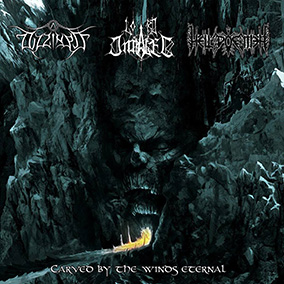
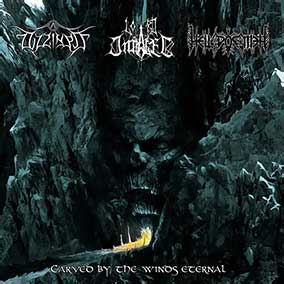
Updated images
image enhancements
minor fixes

diff --git a/dsk2016-demology.htm b/dsk2016-demology.htm
@@ -5,7 +5,7 @@
 	<meta http-equiv="X-UA-Compatible" content="IE=edge">
   <meta name="viewport" content="width=device-width, initial-scale=1">
 	<meta name="author" content="Alexandros Kallinikos">
-	<title>LORD IMPALER | Babylon Whore (2013) :: Official Web Dominion</title>
+	<title>LORD IMPALER | Demology, The Decade Of Obscurity (2016) :: Official Web Dominion</title>
 
 	<link rel="stylesheet" type="text/css" href="css/bootstrap.min.css" />
 	<link rel="stylesheet" type="text/css" href="css/lordstyle.css" />
@@ -54,41 +54,77 @@
 				</nav>
 			</div>
 
-			<article id="main">
-				<h2>Babylon Whore</h2>
-				<div class="row">
-					<div class="col-md-6">
-						<p><img src="releases/2013bw.jpg" class="img-responsive">
-					</div>
-					<div class="col-md-6">
-						<p><b>Babylon Whore</b><br>
-						<b>Year</b>: 2013<br>
-						<b>Category</b>: EP<br>
-						<p><b>Babylon Whore</b> was recorded between January and March 2013 by Lord Impaler. Drums were recorded at Infected_Studios, performed by George Trakas (Mass Infection). <p><b>Babylon Whore</b> was mixed and mastered at Infected_Studios by George Stournaras between March and May 2013.<br><br>
-						Tracklisting:<br>
-						1. Babylon Whore (3:57)<br>
-						2. The White Dream Of Ziz (5:07)<br>
-						<br>Line-up:<br>
-						<b>Tragon</b> - Vocals<br>
-						<b>Lord Nebulah</b> - Guitars<br>
-						<b>Phlegethon</b> - Bass<br>
-						Drums performed by George Trakas (Mass Infection)<br>
-					</div>
+		<article id="main">
+			<h2>Demology, The Decade Of Obscurity</h2>
+			<div class="row">
+				<div class="col-md-6">
+					<p><img src="releases/2016dtdoo.jpg" class="img-responsive">
 				</div>
-
-				<div class="row">
-					<div class="col-md-4">
-						<p>Related Links<br><a href="http://lordimpaler.wordpress.com/category/reviews/babylon-whore/" target="_new">Read reviews</a></p>
-					</div>
-					<div class="col-md-4">
-						<p>Related media<br><a href="http://www.youtube.com/watch?v=AjHw-catCx0" target="_new">Teaser video (youtube)</a></p>
-					</div>
-					<div class="col-md-4">
-						<p>Get Babylon Whore<br><a href="http://lordimpaler.bandcamp.com/album/babylon-whore" target="_new"> Buy it! </a></p>
-					</div>
+				<div class="col-md-6">
+					<p><b>Title:</b>Demology, The Decade Of Obscurity<br>
+					<b>Year</b>: 2016<br>
+					<b>Category</b>: Compilation<br>
+					<p>«On May 13 2016, Lord Impaler stepped on a stage for the first time after 16 years. Our previous gig happened in July 2000. We were working hard all these past months to give the best show we could, and I hope we delivered a memorable performance.</p>
+					<p>We met and talked to people attending the show who weren’t even born when we started our journey as a band. A journey with ups and downs, with twists and turns. And we wanted them to be able to retrace it, from the first dark days, all the way to making our debut album.</p>
+					<p>So we prepared this compilation. <em>DEMOLOGY, The Decade of Obscurity</em> contains all of our demos, plus some unreleased songs. We have treated the sound a bit, to make them listenable, to remove some tape hiss, to bring them to the same volume level, but otherwise we fixed nothing else. This is our history and we are proud of it, because each of these songs has had its role into making us what we are today. This collection is FREE for anyone who wants to discover Lord Impaler. We hope you will enjoy it.»
 				</div>
-			</article>
+			</div>
+			<div class="row">
+				<div class="col-md-6">
+					<p class="text-right">Line-up:<br>
+					<b>Tragon</b> - Vocals<br>
+					<b>Lord Nebulah</b> - Guitars<br>
+					<b>Phlegethon</b> - Bass<br>
+					Voyd - Bass<br>
+					Azaghal - Guitars<br>
+					John S. - Drums<br>
+					Pantelis K. - Drums<br>
+					Nosferatu - Synths<br>
+					Bathory - Vocals<br>
+				</div>
+				<div class="col-md-6">
+					<p>Tracklisting:<br>
+					<ol>
+						<li>Intro</li>
+						<li>Dying</li>
+						<li>Outro</li>
+						<h6>from <em>The Lord Impaler</em> demo, 1999</h6>
+						<li>Non Serviam <em>(* Rotting Christ cover)</em></li>
+						<li>Lesbian Show <em>(* Nightfall cover)</em></li>
+						<li>Blashyrkh (Mighty Ravendark) <em>(* Immortal cover)</em></li>
+						<h6>Live @Oxya, 2000</h6>
+						<li>Mournful Dusk</li>
+						<li>Final Gates</li>
+						<li>Travel Through Abyss</li>
+						<li>Eternal Wander Beyond The Unseen</li>
+						<h6>from <em>Twilight Wander</em> promo, 2001</h6>
+						<li>Among Ruins (In The Moonlight)</li>
+						<li>Antichristian Hordes</li>
+						<li>The Lord Impaler</li>
+						<li>Admire The Cosmos Black</li>
+						<h6>from <em>Promo 2005</em></h6>
+						<li>The Lord Impaler (2006)</li>
+						<h6>Previously unreleased</h6>
+						<li>Homage</li>
+						<li>Warchant</li>
+						<h6>from <em>Demo 2009</em></h6>
+					</ol>
+				</div>
+			</div>
 
+
+			<div class="row">
+				<div class="col-md-4">
+					<p>Related Links<br>--</p>
+				</div>
+				<div class="col-md-4">
+					<p>Related media<br><a href="https://youtu.be/9FEW482Hcqg">Video</a></p>
+				</div>
+				<div class="col-md-4">
+					<p>Get if FREE<br><a href="http://bit.ly/Demology">Direct download</p>
+				</div>
+			</div>
+		</article>
 
 		<hr style="width: 80%">
 		<footer id="footer"><p class="text-center">&copy; C & P Lord Impaler 1998-2016 - Powered by Bootstrap 3.3.6<br>

diff --git a/discography.htm b/discography.htm
@@ -61,7 +61,7 @@
 					<div class="col-md-12">
 						<h3>Albums</h3>
 						<div class="row">
-							<div class="col-md-3"><a href="dsk2011-admire-the-cosmos-black.htm"><img src="releases/2011atcb_cd.jpg" class="img-responsive"><br><p class="text-center">Admire The Cosmos Black<br>(2011)</a></div>
+							<div class="col-md-3"><a href="dsk2011-admire-the-cosmos-black.htm"><img src="releases/2011atcb_thumb.jpg" class="img-responsive"><br><p class="text-center">Admire The Cosmos Black<br>(2011)</a></div>
 							<div class="col-md-3"></div>
 							<div class="col-md-3"></div>
 							<div class="col-md-3"></div>
@@ -74,9 +74,9 @@
 						<h3>EP / Split</h3>
 						<div class="row">
 							<div class="col-md-3"><a href="dsk2016-carved-by-the-winds-eternal.htm"><img src="releases/2016cbtwe_thumb.jpg" class="img-responsive"><br><p class="text-center">Carved By The Winds Eternal<br>(2016)</a></div>
-							<div class="col-md-3"><a href="dsk2014-the-serpent-seal.htm"><img src="releases/2014tss_digi.jpg" class="img-responsive"><br><p class="text-center">The Serpent Seal<br>(2014)</a></div>
-							<div class="col-md-3"><a href="dsk2013-babylon-whore.htm"><img src="releases/2013bw_digi.jpg" class="img-responsive"><br><p class="text-center">Babylon Whore<br>(2013)</a></div>
-							<div class="col-md-3"><a href="dsk2008-the-ascending-novelty.htm"><img src="releases/2008tan_lp.jpg" class="img-responsive"><br><p class="text-center">The Ascending Novelty<br>(2008)</a></div>
+							<div class="col-md-3"><a href="dsk2014-the-serpent-seal.htm"><img src="releases/2014tss_thumb.jpg" class="img-responsive"><br><p class="text-center">The Serpent Seal<br>(2014)</a></div>
+							<div class="col-md-3"><a href="dsk2013-babylon-whore.htm"><img src="releases/2013bw_thumb.jpg" class="img-responsive"><br><p class="text-center">Babylon Whore<br>(2013)</a></div>
+							<div class="col-md-3"><a href="dsk2008-the-ascending-novelty.htm"><img src="releases/2008tan_thumb.jpg" class="img-responsive"><br><p class="text-center">The Ascending Novelty<br>(2008)</a></div>
 						</div>
 					</div>
 				</div>
@@ -85,8 +85,8 @@
 					<div class="col-md-12">
 						<h3>Compilations</h3>
 						<div class="row">
-							<div class="col-md-3"><a href="dsk2011-black-syndicate-2.htm"><img src="releases/2011tbsv2.jpg" class="img-responsive"><br><p class="text-center">The Black Syndicate vol.ii<br>(2011)</a></div>
-							<div class="col-md-3"></div>
+							<div class="col-md-3"><a href="dsk2016-demology.htm"><img src="releases/2016dtdoo_thumb.jpg" class="img-responsive"><br><p class="text-center">Demology, The Decade Of Obscurity<br>(2016)</a></div>
+							<div class="col-md-3"><a href="dsk2011-black-syndicate-2.htm"><img src="releases/2011tbsv2_thumb.jpg" class="img-responsive"><br><p class="text-center">The Black Syndicate vol.ii<br>(2011)</a></div>
 							<div class="col-md-3"></div>
 							<div class="col-md-3"></div>
 						</div>

diff --git a/store.htm b/store.htm
@@ -85,21 +85,21 @@
 						</div>
 					</div>
 					<div class="row" style="margin-bottom:20px;">
-						<div class="col-md-4"><img src="releases/2014tss_digi.jpg" class="img-responsive" alt="The Serpent Seal"></div>
+						<div class="col-md-4"><img src="releases/2014tss_thumb.jpg" class="img-responsive" alt="The Serpent Seal"></div>
 						<div class="col-md-8"><h4>The Serpent Seal, Το Αρχέγονο Σκότος Επιστρέφει</h4><h5>(EP, 2014)</h5>
 									<p>Pricing: 2,00 &euro; (Digital)</p>
 									<p><a class="btn btn-primary btn-lg" href="http://lordimpaler.bandcamp.com/album/the-serpent-seal" target="_blank">Buy Digital</a></p>
 						</div>
 					</div>
 					<div class="row" style="margin-bottom:20px;">
-						<div class="col-md-4"><img src="releases/2013bw_digi.jpg" class="img-responsive" alt="Babylon Whore"></div>
+						<div class="col-md-4"><img src="releases/2013bw_thumb.jpg" class="img-responsive" alt="Babylon Whore"></div>
 						<div class="col-md-8"><h4>Babylon Whore</h4><h5>(EP, 2013)</h5>
 									<p>Pricing: 1,00 &euro; (Digital)</p>
 									<p><a class="btn btn-primary btn-lg" href="http://lordimpaler.bandcamp.com/album/babylon-whore" target="_blank">Buy Digital</a></p>
 						</div>
 					</div>
 					<div class="row" style="margin-bottom:20px;">
-						<div class="col-md-4"><img src="releases/2011atcb_cd.jpg" class="img-responsive" alt="Admire the Cosmos Black CD"></div>
+						<div class="col-md-4"><img src="releases/2011atcb_thumb.jpg" class="img-responsive" alt="Admire the Cosmos Black CD"></div>
 						<div class="col-md-8"><h4>Admire The Cosmos Black</h4><h5>(Album, 2011)</h5>
 									<p>Pricing: 12,00 &euro; (CD, postage included), 5,50 &euro; (Digital)</p>
 								<div class="row">
@@ -110,14 +110,14 @@
 										<button type="submit" class="btn btn-primary btn-lg">Buy CD</button>
 										</form>
 									</div>
-									<div class="col-md-6" style="min-width:186px">
+									<div class="col-md-6">
 										<a class="btn btn-primary btn-lg" href="http://lordimpaler.bandcamp.com/album/admire-the-cosmos-black" target="_blank">Buy Digital</a>
 									</div>
 								</div>
 						</div>
 					</div>
 					<div class="row" style="margin-bottom:20px;">
-						<div class="col-md-4"><img src="releases/2008tan_lp.jpg" class="img-responsive" alt="The Ascending Novelty"></div>
+						<div class="col-md-4"><img src="releases/2008tan_thumb.jpg" class="img-responsive" alt="The Ascending Novelty"></div>
 						<div class="col-md-8"><h4>The Ascending Novelty</h4><h5>(4-way Split, 2008)</h5>
 									<p>Pricing: 10,00 &euro; (LP, postage included)</p>
 									<p>Limited stock: to place your order send an e-mail to <a href="mailto:the_tragon@yahoo.com"> Tragon </a> and ask for availability.</p>

diff --git a/dsk2014-the-serpent-seal.htm b/dsk2014-the-serpent-seal.htm
@@ -58,7 +58,7 @@
 				<h2>The Serpent Seal, <font face="arial">Το Αρχέγονο Σκότος Επιστρέφει</font></h2>
 				<div class="row">
 					<div class="col-md-6">
-						<p><img src="releases/2014tss_digi.jpg" class="img-responsive">
+						<p><img src="releases/2014tss.jpg" class="img-responsive">
 					</div>
 					<div class="col-md-6">
 						<p><b>The Serpent Seal, Το Αρχέγονο Σκότος Επιστρέφει</b><br>

diff --git a/dsk2016-carved-by-the-winds-eternal.htm b/dsk2016-carved-by-the-winds-eternal.htm
@@ -58,7 +58,7 @@
 			<h2>Carved By The Winds Eternal</h2>
 			<div class="row">
 				<div class="col-md-6">
-					<p><img src="releases/2016cbtwe_thumb.jpg" class="img-responsive">
+					<p><img src="releases/2016cbtwe.jpg" class="img-responsive">
 				</div>
 				<div class="col-md-6">
 					<p><b>Title:</b>Carved By The Winds Eternal<br>

diff --git a/dsk2011-admire-the-cosmos-black.htm b/dsk2011-admire-the-cosmos-black.htm
@@ -58,7 +58,7 @@
 				<h2>Admire The Cosmos Black</h2>
 				<div class="row">
 					<div class="col-md-6">
-						<p><img src="releases/2011atcb_cd.jpg" class="img-responsive">
+						<p><img src="releases/2011atcb.jpg" class="img-responsive">
 					</div>
 					<div class="col-md-6">
 						<p><strong>Admire The Cosmos Black</strong><br>

diff --git a/dsk2008-the-ascending-novelty.htm b/dsk2008-the-ascending-novelty.htm
@@ -58,7 +58,7 @@
 			<h2>The Ascending Novelty</h2>
 			<div class="row">
 				<div class="col-md-6">
-					<p><img src="releases/2008tan_lp.jpg" class="img-responsive">
+					<p><img src="releases/2008tan.jpg" class="img-responsive">
 				</div>
 				<div class="col-md-6">
 					<p><b>Title:</b>The Ascending Novelty<br>
